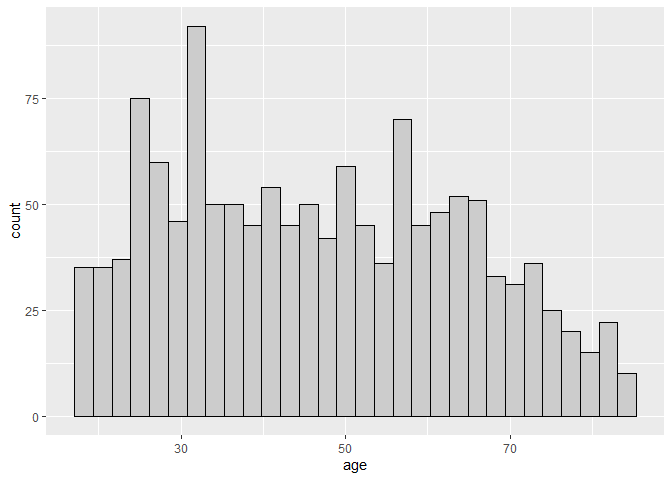
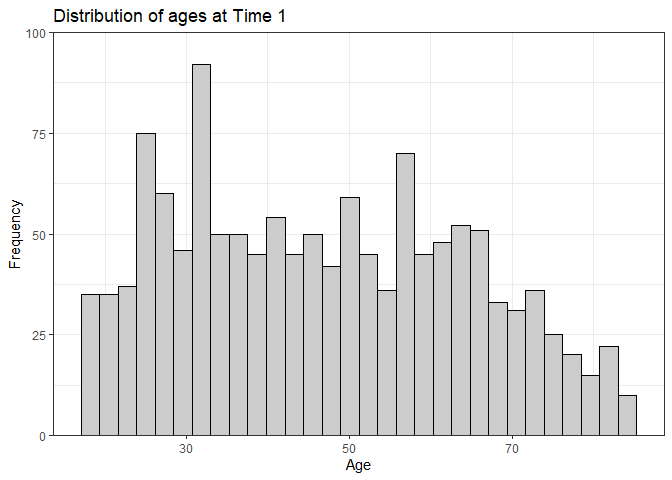
Done with lab 6!

diff --git a/lab-06.md b/lab-06.md
@@ -114,6 +114,13 @@ faculty types combined! :0
 
 ### Exercise 3
 
+Now it’s time to figure out a better way of representing this fisheries
+data. My first thought is that a histogram just showing the distribution
+of fish production per country might be useful. This shows that there
+are 3 countries that are pretty significant outliers, while most
+countries are producing 1 million tons or less. Not bad, but we can
+probably do better.
+
 ``` r
 fisheries <- read_csv("data/fisheries.csv")
 ```
@@ -135,17 +142,43 @@ ggplot(aes(x = new_total))+
   geom_histogram(binwidth = 1, color = "black", fill = "blue")+
   scale_y_continuous(expand = c(0, 0), limits = c(0, 25))+
   scale_x_continuous(expand = c(0, 0), limits = c(0, 82))+
-  theme_bw()
+  theme_bw()+
+  labs(title = "Distribution of total fish production per country",
+       y = "Number of countries",
+       x = "Fish production (in million tons)")
 ```
 
     ## Warning: Removed 2 rows containing missing values (`geom_bar()`).
 
 ![](lab-06_files/figure-gfm/doin-stuff-1.png)<!-- -->
 
+Since the author of the original visualization only included 6 countries
+in the legend of their plot (China, Indonesia, Vietnam, India, the
+United States, and Russia), I’m going to start by assuming that those
+are the primary countries of interest. Let’s try to improve on the pie
+chart by representing the portion of total fish production accounted for
+by each of these 6 countries, as well as all other countries with a
+stacked bar chart. We can get some pretty neat information from this
+plot! For example, we can see that China accounts for more of the total
+aquaculture than all other countries combined! However, countries that
+aren’t included in this plot have more of a stronghold the amount of
+fish production coming from capture. Let’s generate a second,
+complimentary plot to learn more about other major fish producing
+countries.
+
+The second plot shows a similar stacked bar for other countries that
+produce at least 1 million tons of fish. One striking thing is that,
+when we take out the major aquaculture countries that are producing tens
+of millions of tons of fish, the majority of fish are now produced
+through capture. It looks like Japan, the Phillipines, and Bangladesh
+are noteworthy producers of fish, with a number of other countries also
+taking up sizeable chunks of the fish market.
+
 ``` r
 fish_long <- fisheries %>%
   pivot_longer(cols = c(-total, -country), names_to = "type") %>%
-  mutate(value = as.numeric(value))
+  mutate(value = as.numeric(value))%>%
+  mutate(new_value = value/1000000)
 
 fish_long %>%
   mutate(new_country = case_when(
@@ -156,8 +189,17 @@ fish_long %>%
     country == "United States" ~ "United States",
     country == "Russia" ~ "Russia",
     !country %in% c("China", "India", "Indonesia", "Vietnam", "United States", "Russia") ~ "Other")) %>%
-  ggplot(aes(x = type, y = value, fill = fct_reorder(new_country, total)))+
-  geom_bar(stat = "identity")
+  ggplot(aes(x = type, y = new_value, fill = fct_reorder(new_country, total)))+
+  geom_bar(stat = "identity")+
+  scale_y_continuous(
+    expand = c(0, 0),
+    limits = c(0, 115))+
+  scale_fill_viridis_d()+
+  theme_bw()+
+  labs(title = "Fish production in 6 major fish countries",
+       y = "Fish production (in million tons)",
+       x = "Source",
+       fill = "Country")
 ```
 
 ![](lab-06_files/figure-gfm/try-something-better-1.png)<!-- -->
@@ -165,17 +207,44 @@ fish_long %>%
 ``` r
 fish_long %>%
   filter(!country %in% c("China", "India", "Indonesia", "Vietnam", "United States", "Russia"), total > 1000000) %>%
-  ggplot(aes(x = type, y = value, fill = fct_reorder(country, value)))+
-  geom_bar(stat = "identity")
+  ggplot(aes(x = type, y = new_value, fill = fct_reorder(country, value)))+
+  geom_bar(stat = "identity")+
+  scale_y_continuous(
+    expand = c(0, 0),
+    limits = c(0, 35))+
+  scale_fill_viridis_d()+
+  theme_bw()+
+  labs(title = "Fish production in other major fish countries",
+       y = "Fish production (in million tons)",
+       x = "Source",
+       fill = "Country")
 ```
 
 ![](lab-06_files/figure-gfm/try-something-better-2.png)<!-- -->
 
+I want to try one more plot that I think might do a nice job of telling
+the whole fish production story. This graph shows all the information
+from the two barplots before all at once. Mainly, what this plot shows
+is that there are a couple countries producing an enourmous amount of
+fish, largely through aquaculture, as well as lots of other countries
+producing sizeable, but relatively small amounts of fish, largely
+through capture.
+
 ``` r
 fish_long %>%
   filter(total > 1000000) %>%
-  ggplot(aes(x = fct_reorder(country, value), fill = type, y = value))+
-  geom_bar(stat = "identity")
+  ggplot(aes(x = fct_reorder(country, value), fill = type, y = new_value))+
+  geom_bar(stat = "identity")+
+  scale_y_continuous(
+    expand = c(0, 0),
+    limits = c(0, 84))+
+  scale_fill_viridis_d()+
+  theme_bw()+
+  theme(axis.text.x = element_text(angle = -40, hjust = -0.05))+
+  labs(title = "Fish production in countries producing at least 1 million tons of fish",
+       x = "Country",
+       y = "Fish production (in million tons)",
+       fill = "Source")
 ```
 
 ![](lab-06_files/figure-gfm/one-last-plot-1.png)<!-- -->
@@ -193,8 +262,9 @@ data(Whickham)
 The data is most likely observational, because it is described as a
 survey conducted at 2 time points, and also because the IV is whether
 someone is a smoker. Given the health risks involved in smoking, it is
-unlikely that the researchers would have randomly assigned people to
-become smokers for 20 years, which would be extremely unethical.
+unlikely that the researchers would have wanted to, or have been
+ethically permitted to, randomly assigned people to become smokers for
+20 years.
 
 ### Exercise 2
 
@@ -213,21 +283,42 @@ There are 3 variables in the dataset, which represent:
 
 ``` r
 ggplot(Whickham, aes(x = outcome))+
-  geom_bar()
+  geom_bar()+
+  theme_bw()+
+  scale_y_continuous(
+    expand = c(0, 0),
+    limits = c(0, 1000))+
+  labs(title = "Mortality of participants at Time 2",
+       x = "Outcome",
+       y = "Count")
 ```
 
 ![](lab-06_files/figure-gfm/viz-vars-1.png)<!-- -->
 
 ``` r
 ggplot(Whickham, aes(x = smoker))+
-  geom_bar()
+  geom_bar()+
+  theme_bw()+
+  scale_y_continuous(
+    expand = c(0, 0),
+    limits = c(0, 800))+
+  labs(title = "Smoking status of participants at Time 1",
+       x = "Do you smoke?",
+       y = "Count")
 ```
 
 ![](lab-06_files/figure-gfm/viz-vars-2.png)<!-- -->
 
 ``` r
 ggplot(Whickham, aes(x = age))+
-  geom_histogram(color = "black", fill = "grey80")
+  geom_histogram(color = "black", fill = "grey80")+
+  theme_bw()+
+  scale_y_continuous(
+    expand = c(0, 0),
+    limits = c(0, 100))+
+  labs(title = "Distribution of ages at Time 1",
+       x = "Age",
+       y = "Frequency")
 ```
 
     ## `stat_bin()` using `bins = 30`. Pick better value with `binwidth`.
@@ -250,7 +341,13 @@ were descriptively less likely to have died by time 2 than non-smokers.
 
 ``` r
 ggplot(Whickham, aes(x = smoker, fill = outcome))+
-  geom_bar(position = "fill")
+  geom_bar(position = "fill", color = "black")+
+  scale_fill_manual(values = c("grey75", "black"))+
+  theme_bw()+
+  labs(title = "Probability of mortality by smoker status",
+       fill = "Mortality",
+       x = "Smoker status",
+       y = "Probability")
 ```
 
 ![](lab-06_files/figure-gfm/viz-results-1.png)<!-- -->
@@ -301,7 +398,13 @@ paradox.
 ``` r
 ggplot(Whickham, aes(x = smoker, fill = outcome))+
   facet_wrap(~ age_cat)+
-  geom_bar()
+  geom_bar(color = "black")+
+  scale_fill_manual(values = c("grey75", "black"))+
+  theme_bw()+
+  labs(title = "Relationship between mortality and smoker status by age",
+       fill = "Mortality",
+       x = "Smoker status",
+       y = "Frequency")
 ```
 
 ![](lab-06_files/figure-gfm/unraveling-age-1.png)<!-- -->
